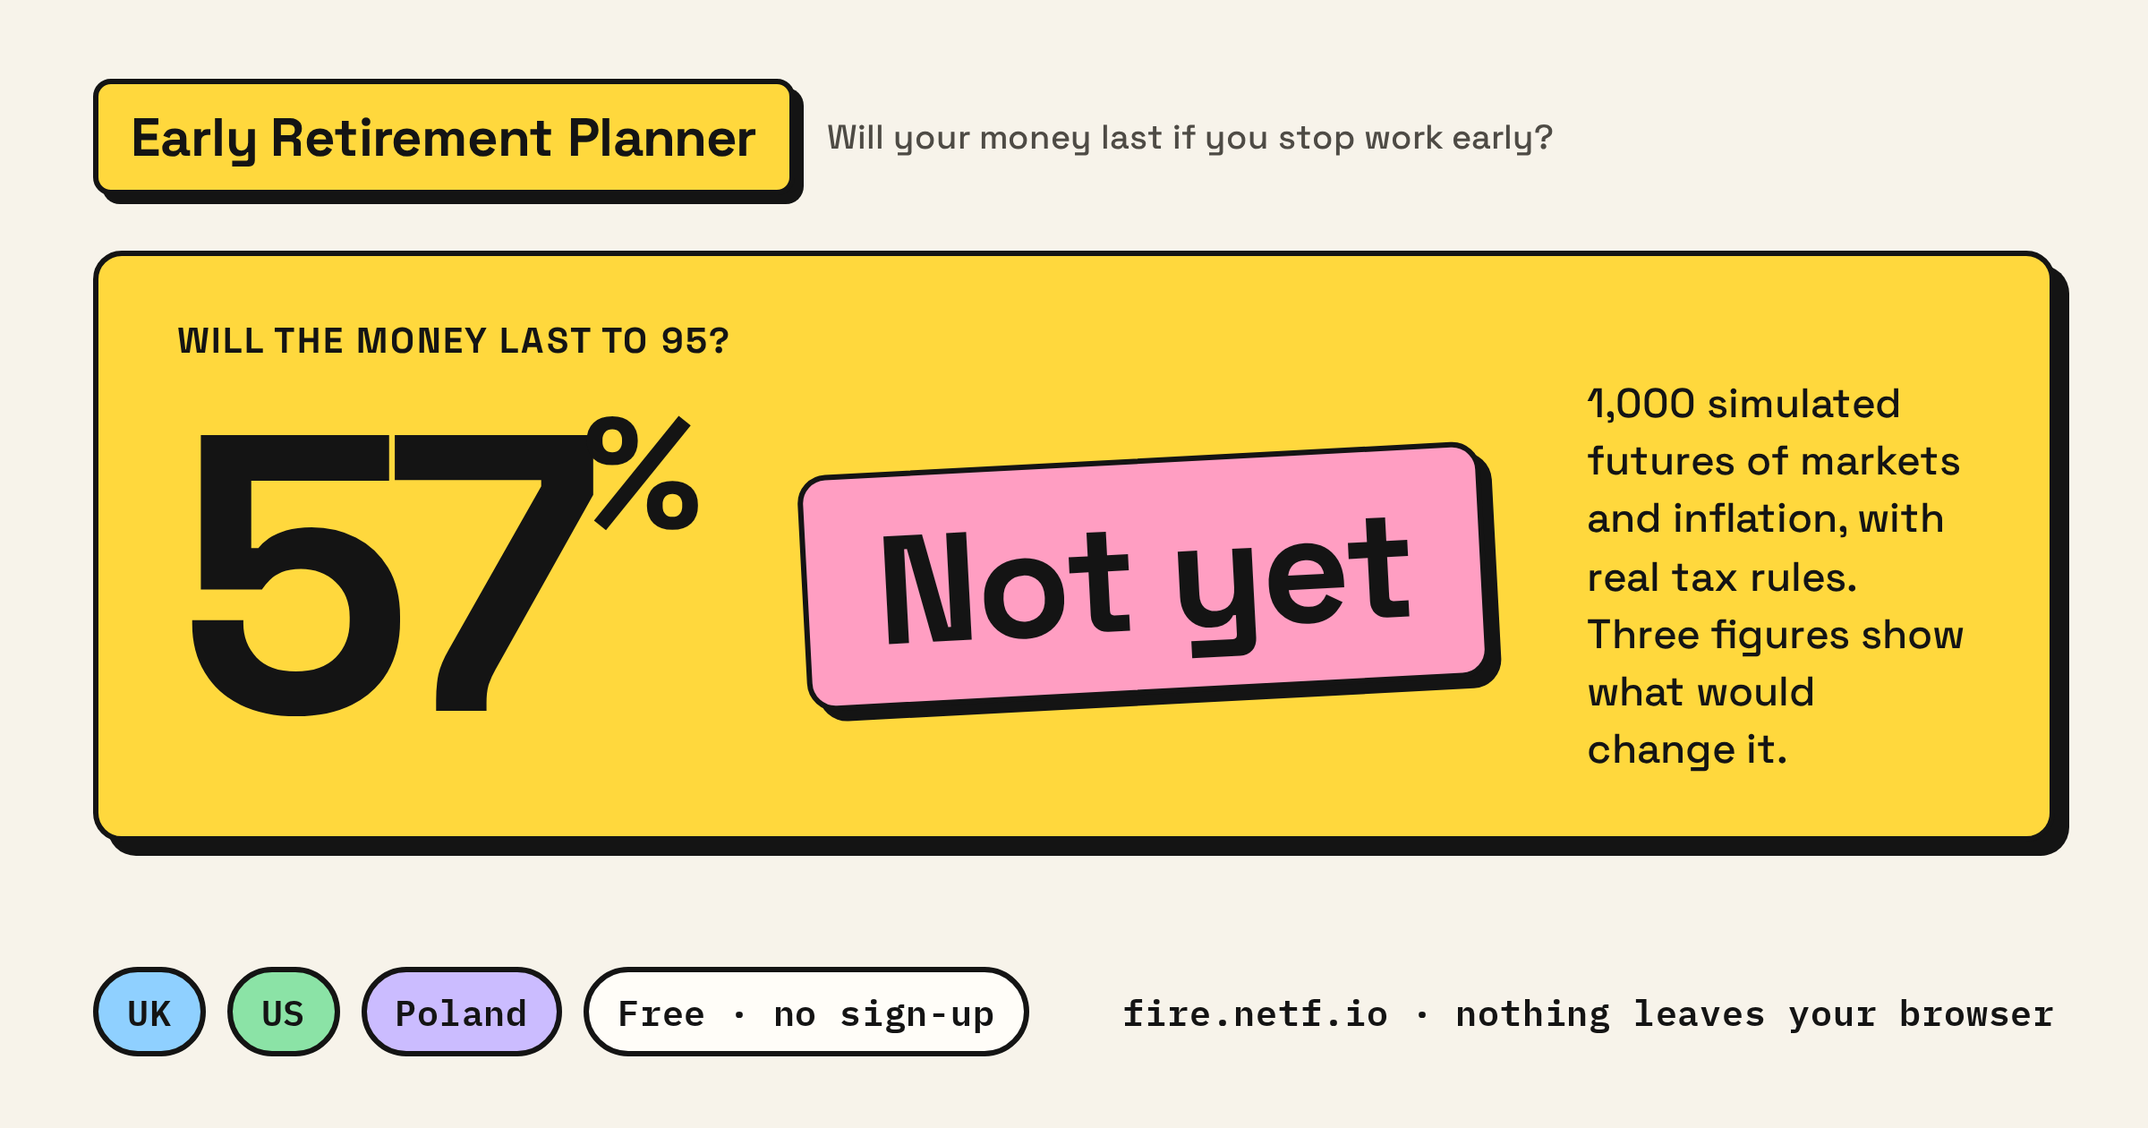
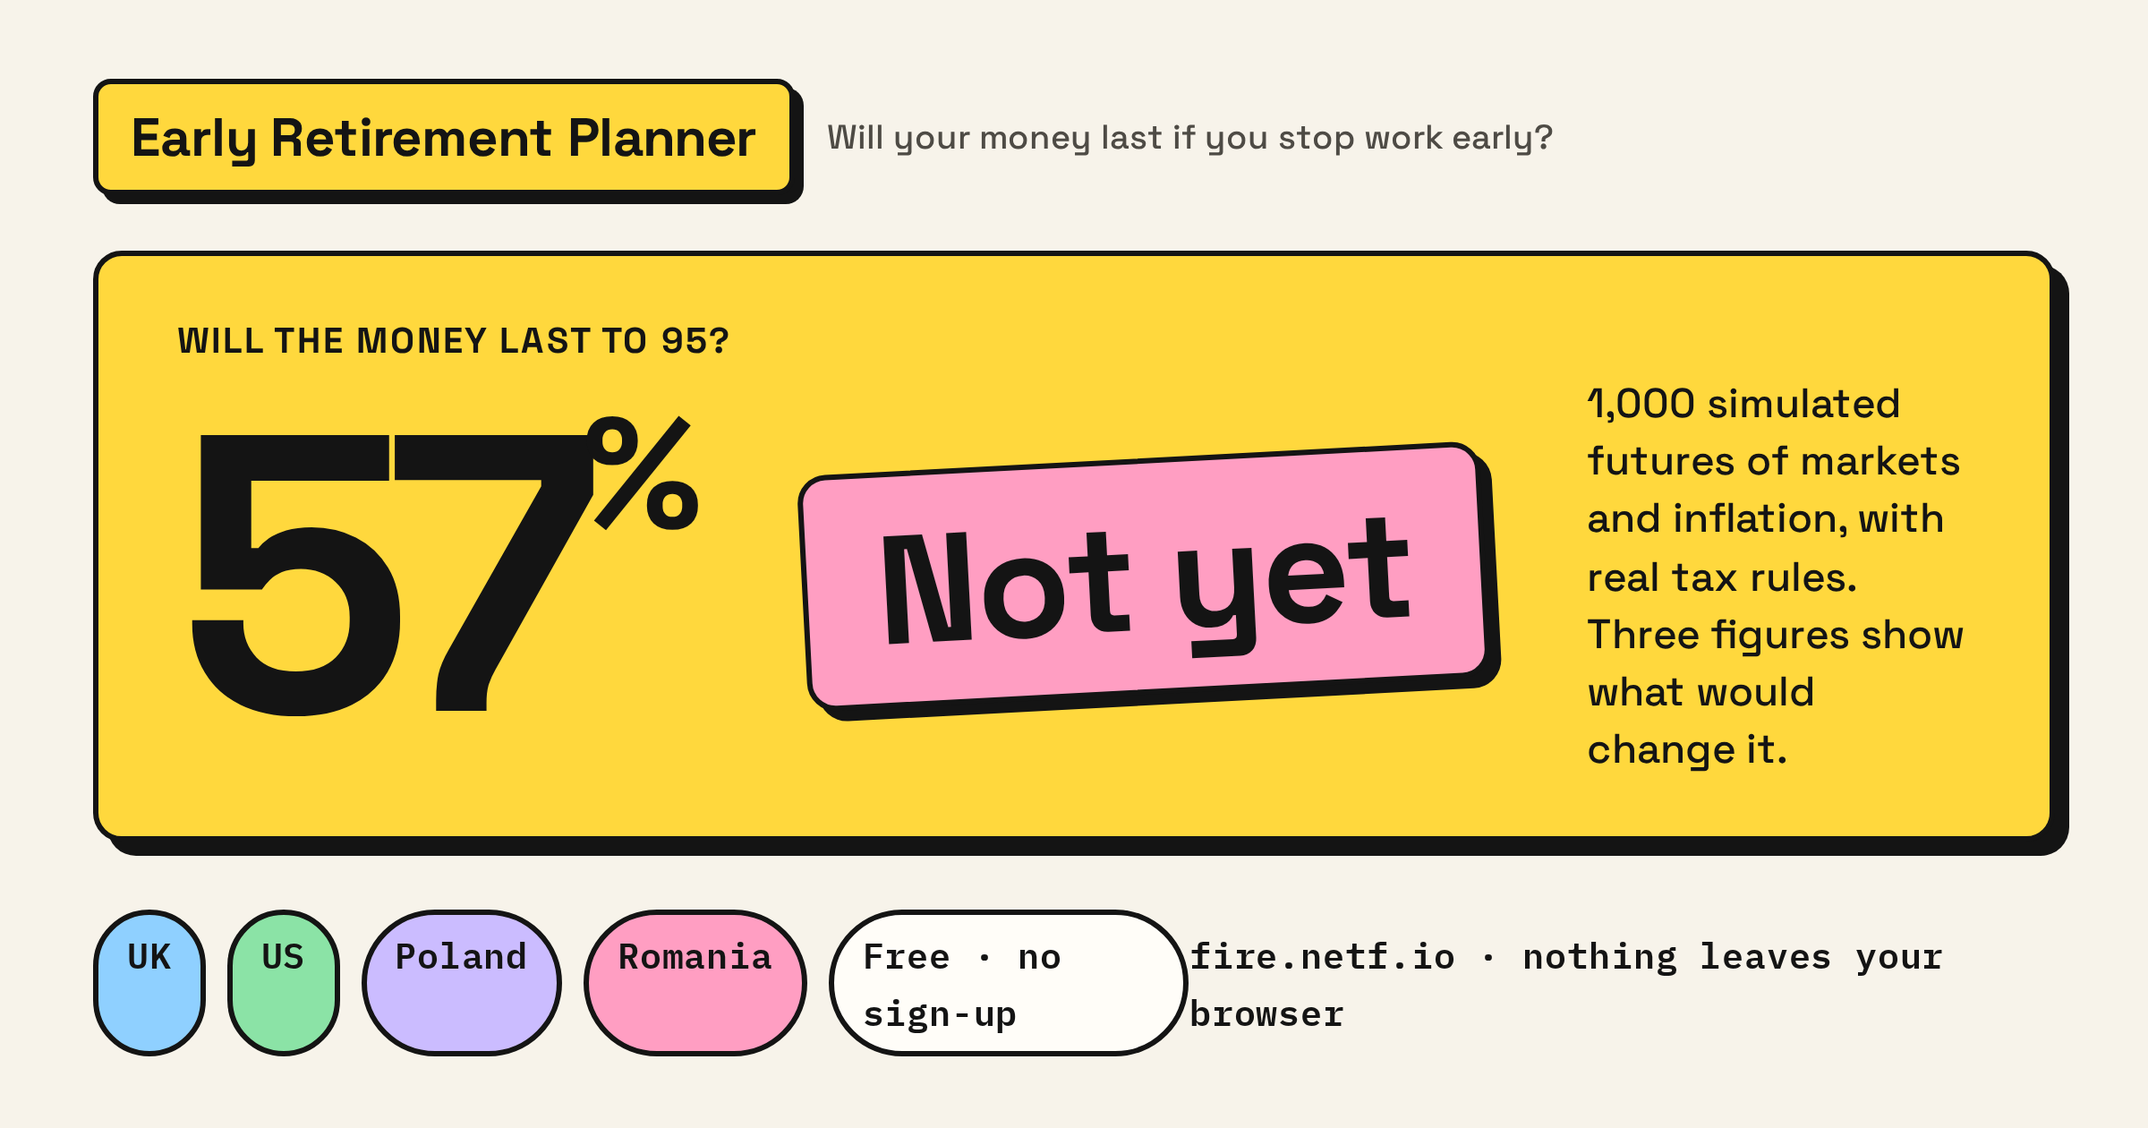
Add Romania: Pilon II/III, 2026 investment taxes, pension exemption, rent bands
Fourth profile, verified against 2026 sources: pensions untouched to 3,000
lei/month with 10% CASS + 10% tax on the excess (19% band above a 36,000
allowance); Pilon III from 60 (deductible to ~EUR 400/yr), Pilon II from 65;
brokerage gains modelled as a blended 3% of return (1/3/6% by holding period
via intermediaries, 16% dividends from 2026), deposit interest 10%; long-term
rent 8% of gross with a higher band approximating stepped CASS; property
sale 1%/3% of price noted as a documented approximation. Ten sources, all
confirmed or example. Worked-example tests; invariants run over RO; OG image
and site copy gain Romania.

Claude-Session: https://claude.ai/code/session_01Cx3VPvL7UWtJdQXEMEgPsS

Changed region(s): [[0.0312, 0.8048, 0.9688, 0.9595]]

diff --git a/lib/profiles/ro.ts b/lib/profiles/ro.ts
@@ -1,0 +1,67 @@
+import type { Jurisdiction } from "./types.ts";
+
+export const RO: Jurisdiction = {
+  id: "ro",
+  label: "Romania",
+  shortLabel: "RO",
+  currency: "RON",
+  locale: "ro-RO",
+  taxYear: "2026",
+  taxVariants: [
+    {
+      id: "standard",
+      label: "Impozit pe venit",
+      schedule: {
+        // Pensions (state, Pilon II and Pilon III alike) are untouched up to 3,000 lei a month; the excess pays
+        // 10% CASS and then 10% income tax on what is left — together exactly 19% of the excess.
+        allowance: 36_000,
+        bands: [{ upTo: Number.POSITIVE_INFINITY, rate: 0.19 }],
+      },
+    },
+  ],
+  accounts: [
+    { id: "pilon3", name: "Pilon III (pensie facultativă)", tag: "deductible in · taxed above 3,000 lei/mo · from 60", growthTax: { kind: "none" }, withdrawal: { kind: "income" }, accessAge: 60, contributionHint: "Deductible up to €400/year (~2,000 lei); employer can add the same", defaults: { balance: 60_000, monthlyContribution: 400 } },
+    { id: "pilon2", name: "Pilon II (pensie obligatorie)", tag: "funded from payroll · taxed above 3,000 lei/mo · from 65", growthTax: { kind: "none" }, withdrawal: { kind: "income" }, accessAge: 65, contributionHint: "Fed by 4.75% of gross salary while you work", defaults: { balance: 90_000, monthlyContribution: 300 } },
+    { id: "brokerage", name: "Cont de brokeraj", tag: "gains ~1–3% via intermediaries · accessible", growthTax: { kind: "share-of-return", rate: 0.03 }, withdrawal: { kind: "free" }, accessAge: null, defaults: { balance: 600_000, monthlyContribution: 3_000 } },
+    { id: "cash", name: "Numerar / depozite", tag: "interest taxed 10% · accessible", growthTax: { kind: "share-of-return", rate: 0.1 }, withdrawal: { kind: "free" }, accessAge: null, isCash: true, defaults: { balance: 50_000, monthlyContribution: 0 } },
+  ],
+  withdrawalOrder: ["cash", "brokerage", "pilon3", "pilon2"],
+  savingTargets: { bridge: "brokerage", longTerm: "pilon3" },
+  guaranteedIncome: [
+    { id: "statePension", label: "Pensie de stat", taxableShare: 1, isState: true, defaults: { annual: 36_000, fromAge: 65 } },
+  ],
+  // Long-term rent: 10% on gross less the 20% flat deduction = 8% of gross; the stepped CASS on rental income
+  // is approximated by the higher rate above the ~120,000 lei band where it bites hardest.
+  property: { rentalTax: { kind: "flat-on-gross", threshold: 121_500, lowRate: 0.08, highRate: 0.16 }, gainTax: { kind: "rate" }, defaultGainRatePercent: 3 },
+  notes: [
+    "Pensions — state, Pilon II and Pilon III — are untouched up to 3,000 lei a month (Law 244/2024); the excess pays 10% CASS and then 10% income tax, modelled together as 19% of the excess. Pilon III's exemption of own contributions at withdrawal is not modelled separately.",
+    "Brokerage gains via Romanian or EU intermediaries are withheld at 1% (held over a year), 3% (180–365 days) or 6% (under 180 days); dividends pay 16% from 2026. The model charges 3% of each year's positive return as a blended simplification.",
+    "Interest on deposits is taxed at 10%. The stepped CASS on investment and rental income (10% of 6/12/24 minimum wages by band) is only approximated, through the higher rental rate above ~120,000 lei of rent.",
+    "Long-term rent is taxed at 10% of gross after a 20% flat deduction — 8% of gross rent. Property sales are taxed at 1% (held over 3 years) or 3% of the sale price, not the gain: enter a gains-tax rate that approximates this for your property.",
+  ],
+  sources: [
+    { item: "Income tax on pensions", value: "Tax-free to 3,000 lei/month; 10% CASS + 10% income tax on the excess (Law 244/2024)", source: "ANAF / Casa Națională de Pensii Publice", url: "https://www.cnpp.ro/", status: "confirmed", note: "In force since October 2024; verified for 2026." },
+    { item: "Dividend tax 2026", value: "16% (up from 10%) from 1 January 2026", source: "EY — Romanian tax changes (Law 141/2025)", url: "https://www.ey.com/en_gl/technical/tax-alerts/romanian-tax-changes-introduced-by-new-fiscal-and-budgetary-measures", status: "confirmed" },
+    { item: "Capital gains via intermediaries", value: "1% held >365 days; 3% 180–365 days; 6% <180 days; 16% outside intermediaries", source: "Codul Fiscal art. 97; EY alert", url: "https://static.anaf.ro/static/10/Anaf/legislatie/Cod_fiscal_norme_2026.htm", status: "confirmed", note: "Modelled as a blended 3% of each year's positive return." },
+    { item: "Interest on deposits", value: "10%", source: "Codul Fiscal art. 97", url: "https://static.anaf.ro/static/10/Anaf/legislatie/Cod_fiscal_norme_2026.htm", status: "confirmed" },
+    { item: "Pilon III", value: "Access from 60 (90 contributions); deductible up to €400/year each for employee and employer", source: "Legea 204/2006; APAPR", url: "https://apapr.ro/pilonul-3-facultativ/", status: "confirmed" },
+    { item: "Pilon II", value: "Mandatory private pillar, 4.75% of gross salary; payout rules per Law 2/2026", source: "Legea 411/2004; ASF", url: "https://asfromania.ro/", status: "confirmed", note: "Payout modelled as ordinary drawdown rather than the 8-year programmed schedule." },
+    { item: "Rental income", value: "10% on gross less a 20% flat deduction (8% of gross) for long-term lets", source: "Codul Fiscal art. 84 (2026)", url: "https://static.anaf.ro/static/10/Anaf/legislatie/Cod_fiscal_norme_2026.htm", status: "confirmed", note: "Stepped CASS on rental income approximated by the higher band above ~120,000 lei." },
+    { item: "Property sale tax", value: "1% of the sale price held >3 years; 3% within 3 years", source: "Codul Fiscal art. 111", url: "https://static.anaf.ro/static/10/Anaf/legislatie/Cod_fiscal_norme_2026.htm", status: "confirmed", note: "The model taxes the gain, not the price — set the rate to approximate your case." },
+    { item: "CASS bands on investment/rental income", value: "10% of 6 / 12 / 24 minimum wages (24,300 / 48,600 / 97,200 lei at the 4,050 lei minimum wage)", source: "Codul Fiscal art. 170", url: "https://static.anaf.ro/static/10/Anaf/legislatie/Cod_fiscal_norme_2026.htm", status: "confirmed", note: "Approximated, not modelled band by band." },
+    { item: "State pension (example default)", value: "36,000 lei a year (3,000 lei/month)", source: "CNPP — indicatori statistici", url: "https://www.cnpp.ro/indicatori-statistici/", status: "example", note: "Close to the average pension after the 2024 recalculation; use your own CNPP estimate. Standard retirement age 65 (women transitioning to 65 by 2035)." },
+  ],
+  defaults: {
+    currentAge: 40,
+    retirementAge: 50,
+    planToAge: 95,
+    desiredMonthlySpending: 10_000,
+    essentialMonthlySpending: 7_000,
+    spendingPhases: [
+      { label: "Pensionare activă", startAge: 50, endAge: 69, monthlyAmount: 10_000 },
+      { label: "Ani mai liniștiți", startAge: 70, endAge: 84, monthlyAmount: 10_000 },
+      { label: "Bătrânețe și îngrijire", startAge: 85, endAge: 95, monthlyAmount: 10_000 },
+    ],
+    property: { value: 500_000, purchaseCostBasis: 350_000, mortgage: 150_000, mortgageRatePercent: 6.5, monthlyMortgagePayment: 1_800, monthlyRent: 2_500, monthlyNetIncome: 500 },
+  },
+};

diff --git a/tests/ro.test.ts b/tests/ro.test.ts
@@ -1,0 +1,44 @@
+import assert from "node:assert/strict";
+import test from "node:test";
+import { createDefaultPlan, simulatePlan, type PlanInputs } from "../lib/planner.ts";
+import { FLAT_PORTFOLIO, noAccounts, noIncome, property } from "./helpers.ts";
+
+function roScenario(overrides: Partial<PlanInputs> = {}): PlanInputs {
+  return { ...createDefaultPlan("ro"), currentAge: 66, retirementAge: 66, planToAge: 68, desiredMonthlySpending: 0, essentialMonthlySpending: 0, portfolio: FLAT_PORTFOLIO, accounts: noAccounts("ro"), guaranteedIncome: noIncome("ro"), properties: [], pots: [], ...overrides };
+}
+const close = (actual: number, expected: number, message: string, tolerance = 0.01) => assert.ok(Math.abs(actual - expected) <= tolerance, `${message}: expected ${expected}, got ${actual}`);
+
+test("Romania: a pension is untouched to 3,000 lei a month and pays 19% on the excess (10% CASS, then 10% tax)", () => {
+  const small = roScenario({ guaranteedIncome: { statePension: { annual: 36_000, fromAge: 65 } } });
+  assert.equal(simulatePlan(small).years[0]!.tax, 0, "3,000 lei/month is tax-free");
+  const bigger = roScenario({ guaranteedIncome: { statePension: { annual: 60_000, fromAge: 65 } } });
+  // Excess 24,000: CASS 2,400, then 10% of 21,600 = 2,160 — together 4,560 = 19% of the excess.
+  close(simulatePlan(bigger).years[0]!.tax, 4_560, "10% CASS then 10% tax on the excess");
+});
+
+test("Romania: Pilon III opens at 60, Pilon II at 65, and withdrawals are taxed like pensions", () => {
+  const locked = roScenario({ currentAge: 58, retirementAge: 58, planToAge: 59, desiredMonthlySpending: 1_000, essentialMonthlySpending: 1_000, accounts: { ...noAccounts("ro"), pilon3: { balance: 500_000, monthlyContribution: 0, accessAge: 60 } } });
+  assert.equal(simulatePlan(locked).years[0]!.shortfall > 0, true, "nothing is reachable before 60");
+  const open = roScenario({ accounts: { ...noAccounts("ro"), pilon3: { balance: 500_000, monthlyContribution: 0, accessAge: 60 } }, desiredMonthlySpending: 3_000, essentialMonthlySpending: 3_000 });
+  const year = simulatePlan(open).years[0]!;
+  assert.equal(year.shortfall, 0);
+  assert.ok(year.tax > 0, "a 36,000/yr draw plus the excess of the gross-up is taxed above the exemption");
+});
+
+test("Romania: brokerage gains lose 3% of the return, deposits 10% of the interest", () => {
+  const plan = roScenario({ currentAge: 40, retirementAge: 60, planToAge: 41, portfolio: { ...FLAT_PORTFOLIO, stocksPercent: 100, cashReturnPercent: 4 }, accounts: { ...noAccounts("ro"), brokerage: { balance: 100_000, monthlyContribution: 0 }, cash: { balance: 100_000, monthlyContribution: 0 } } });
+  const years = simulatePlan(plan, { stockReturns: [0, 10], bondReturns: [0, 0], portfolioReturns: [0, 10], cashReturns: [0, 4], inflation: [0, 0], propertyShocks: [0, 0], vacancyMultipliers: [1, 1] }).years;
+  close(years[1]!.balances.brokerage!, 100_000 * (1 + 0.10 * 0.97), "10% return keeps 9.7%");
+  close(years[1]!.balances.cash!, 100_000 * (1 + 0.04 * 0.9), "4% interest keeps 3.6%");
+});
+
+test("Romania: long-term rent is taxed at 8% of gross up to the CASS band, 16% above", () => {
+  const under = roScenario({ properties: [property("ro", { purchaseAge: 50, incomeMode: "detailed", monthlyRent: 5_000, rentFromAge: 66, runningCostsPercent: 0, vacancyPercent: 0, monthlyMortgagePayment: 0, mortgage: 0 })] });
+  const year = simulatePlan(under).years[0]!;
+  // 60,000 gross → 8% = 4,800 settled inside property income.
+  close(year.propertyTax, 4_800, "8% of gross rent");
+  close(year.propertyIncome, 55_200, "net of the flat tax");
+  const over = roScenario({ properties: [property("ro", { purchaseAge: 50, incomeMode: "detailed", monthlyRent: 12_000, rentFromAge: 66, runningCostsPercent: 0, vacancyPercent: 0, monthlyMortgagePayment: 0, mortgage: 0 })] });
+  // 144,000 gross: 8% on 121,500 + 16% on 22,500 = 9,720 + 3,600 = 13,320.
+  close(simulatePlan(over).years[0]!.propertyTax, 13_320, "higher band above the threshold");
+});

diff --git a/app/layout.tsx b/app/layout.tsx
@@ -5,10 +5,10 @@ export const metadata: Metadata = {
   ...(process.env.SITE_URL ? { metadataBase: new URL(process.env.SITE_URL) } : {}),
   title: "Early Retirement Planner",
   description:
-    "Will your money last if you stop work early? A free planner for the UK, US and Poland: your accounts, property, pensions and spending run through 1,000 possible futures of markets and inflation, with each country’s tax and pension rules applied year by year. Nothing you enter leaves your browser.",
+    "Will your money last if you stop work early? A free planner for the UK, US, Poland and Romania: your accounts, property, pensions and spending run through 1,000 possible futures of markets and inflation, with each country’s tax and pension rules applied year by year. Nothing you enter leaves your browser.",
   openGraph: {
     title: "Early Retirement Planner",
-    description: "Know when work becomes optional. UK, US and Poland: your savings, property and spending tested across 1,000 possible futures of markets and inflation, with real tax rules. Runs entirely in your browser.",
+    description: "Know when work becomes optional. UK, US, Poland and Romania: your savings, property and spending tested across 1,000 possible futures of markets and inflation, with real tax rules. Runs entirely in your browser.",
     type: "website",
     images: [
       {
@@ -22,7 +22,7 @@ export const metadata: Metadata = {
   twitter: {
     card: "summary_large_image",
     title: "Early Retirement Planner",
-    description: "Will your money last if you stop work early? UK, US and Poland, 1,000 simulated futures, real tax rules, nothing leaves your browser.",
+    description: "Will your money last if you stop work early? UK, US, Poland and Romania, 1,000 simulated futures, real tax rules, nothing leaves your browser.",
     images: ["/og.png"],
   },
   icons: {

diff --git a/app/components/Welcome.tsx b/app/components/Welcome.tsx
@@ -10,6 +10,7 @@ const STARTERS: Record<ProfileId, Omit<StarterInputs, "balancesAsOf">> = {
   uk: { currentAge: 40, retirementAge: 55, monthlySpending: 2_500, pensionBalance: 150_000, accessibleBalance: 60_000, monthlySaving: 1_000 },
   us: { currentAge: 40, retirementAge: 55, monthlySpending: 4_500, pensionBalance: 300_000, accessibleBalance: 100_000, monthlySaving: 1_500 },
   pl: { currentAge: 40, retirementAge: 55, monthlySpending: 8_000, pensionBalance: 300_000, accessibleBalance: 200_000, monthlySaving: 3_000 },
+  ro: { currentAge: 40, retirementAge: 55, monthlySpending: 10_000, pensionBalance: 100_000, accessibleBalance: 250_000, monthlySaving: 3_000 },
 };
 
 /** Six numbers and a country: enough to build a first plan. Everything else can be refined afterwards. */

diff --git a/lib/profiles/index.ts b/lib/profiles/index.ts
@@ -1,10 +1,11 @@
 import { PL } from "./pl.ts";
+import { RO } from "./ro.ts";
 import type { AccountRule, GuaranteedIncomeRule, Jurisdiction, ProfileId, TaxSchedule } from "./types.ts";
 import { UK } from "./uk.ts";
 import { US } from "./us.ts";
 
-export const PROFILES: Record<ProfileId, Jurisdiction> = { uk: UK, us: US, pl: PL };
-export const PROFILE_IDS: ProfileId[] = ["uk", "us", "pl"];
+export const PROFILES: Record<ProfileId, Jurisdiction> = { uk: UK, us: US, pl: PL, ro: RO };
+export const PROFILE_IDS: ProfileId[] = ["uk", "us", "pl", "ro"];
 
 export function isProfileId(value: unknown): value is ProfileId {
   return typeof value === "string" && value in PROFILES;

diff --git a/tests/share.test.ts b/tests/share.test.ts
@@ -34,7 +34,7 @@ test("looksLikePlan tells our files (and legacy ones) from other JSON", () => {
 });
 
 test("the starter plan puts the six numbers where the profile expects them and is a valid plan", () => {
-  for (const profileId of ["uk", "us", "pl"] as const) {
+  for (const profileId of ["uk", "us", "pl", "ro"] as const) {
     const profile = PROFILES[profileId];
     const plan = buildStarterPlan(profileId, { currentAge: 38, retirementAge: 52, monthlySpending: 2_400, pensionBalance: 180_000, accessibleBalance: 60_000, monthlySaving: 900, balancesAsOf: "2026-08-25" });
     assert.equal(plan.currentAge, 38); assert.equal(plan.retirementAge, 52);

diff --git a/lib/plan.ts b/lib/plan.ts
@@ -359,6 +359,7 @@ const LEGACY_PENSION_SLOT: Record<ProfileId, { id: string; name: string }> = {
   uk: { id: "definedBenefit", name: "Defined benefit pension" },
   us: { id: "pension", name: "Employer pension" },
   pl: { id: "other", name: "Other pension" },
+  ro: { id: "other", name: "Other pension" },
 };
 
 function legacyPensions(profileId: ProfileId, rawIncome: UnknownRecord): PensionIncome[] {

diff --git a/lib/profiles/types.ts b/lib/profiles/types.ts
@@ -4,7 +4,7 @@
  * it only reads these rules.
  */
 
-export type ProfileId = "uk" | "us" | "pl";
+export type ProfileId = "uk" | "us" | "pl" | "ro";
 
 export type TaxBand = { upTo: number; rate: number };
 

diff --git a/README.md b/README.md
@@ -2,14 +2,14 @@
 
 [![CI](https://github.com/netf/early-retirement-planner/actions/workflows/ci.yml/badge.svg)](https://github.com/netf/early-retirement-planner/actions/workflows/ci.yml)
 
-**Will your money last if you stop work early?** A free planner for the UK, US and Poland. Enter your ages, spending, accounts, property and pensions; it runs every year of your plan through 1,000 possible futures of markets and inflation, applying each country's tax and pension rules, and tells you how often the money lasts — plus the earliest age the plan supports, the extra saving that would make it work, and what it can carry.
+**Will your money last if you stop work early?** A free planner for the UK, US, Poland and Romania. Enter your ages, spending, accounts, property and pensions; it runs every year of your plan through 1,000 possible futures of markets and inflation, applying each country's tax and pension rules, and tells you how often the money lasts — plus the earliest age the plan supports, the extra saving that would make it work, and what it can carry.
 
 Everything runs in the visitor's browser (the heavy maths in a Web Worker). Nothing is sent to a server; a plan lives in the browser's local storage and can be shared as a link or a file, which only the holder can open. **This is a planning tool, not financial advice** — see `/about`.
 
 ## What it models
 
-- Accounts per country — ISA / SIPP / GIA / cash; 401(k) / Roth / brokerage; IKE / IKZE / PPK / brokerage — each with its own access age, tax treatment and withdrawal order.
-- Income tax per country (England & NI, Scotland, US single/married, Poland), tax-free pension cash, flat taxes, rental income with finance-cost relief, state pensions and other guaranteed income.
+- Accounts per country — ISA / SIPP / GIA / cash; 401(k) / Roth / brokerage; IKE / IKZE / PPK; Pilon II / Pilon III — each with its own access age, tax treatment and withdrawal order.
+- Income tax per country (England & NI, Scotland, US single/married, Poland, Romania), tax-free pension cash, flat taxes, rental income with finance-cost relief, state pensions and other guaranteed income.
 - Rental property: purchase, mortgage, growth, vacancy, running costs, sale.
 - Four spending rules: fixed, protect (cut after a bad year), flex (Guyton–Klinger guardrails), spend-it-down (amortise to a chosen amount).
 - 1,000 simulated futures (Monte Carlo), historical backtests from 1928, five named stress tests, an access-gap analysis for the years before pensions unlock, and a year-by-year audit trail explaining every number.
